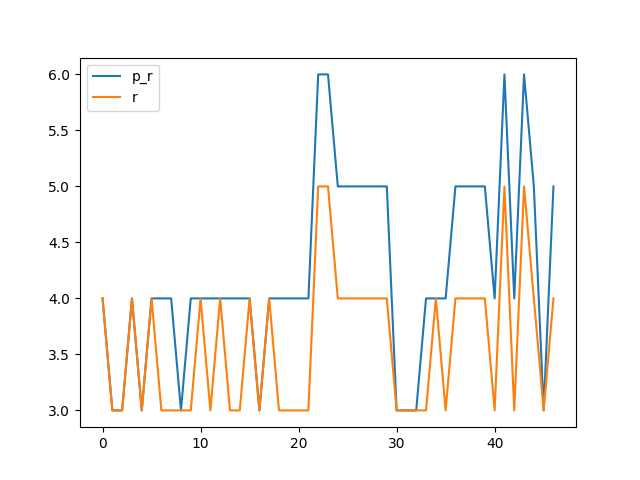
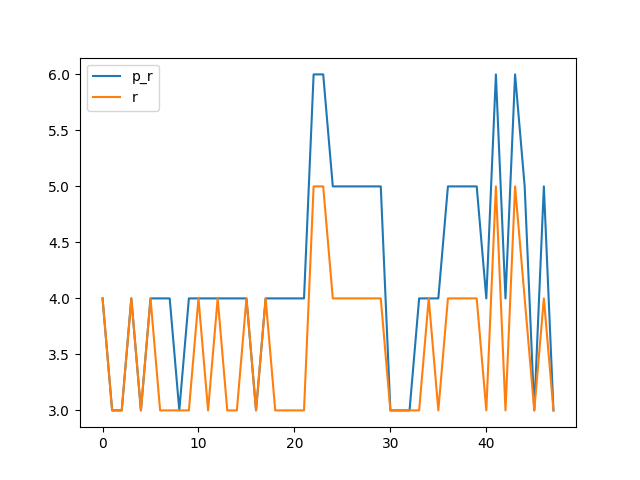
0x002F

diff --git a/benchmark.md b/benchmark.md
@@ -92,16 +92,18 @@ Synthesising 0x002D pexact:224 r=3 exact:224 r=3
 
 Synthesising 0x002E pexact:304 r=5 exact:312 r=4
 
+Synthesising 0x002F pexact:216 r=3 exact:216 r=3
+
 ```mermaid
 xychart-beta
     title "Comparison powertwoexact twoexact"
-    x-axis [0, 1, 2, 3, 4, 5, 6, 7, 8, 9, 10, 11, 12, 13, 14, 15, 16, 17, 18, 19, 20, 21, 22, 23, 24, 25, 26, 27, 28, 29, 30, 31, 32, 33, 34, 35, 36, 37, 38, 39, 40, 41, 42, 43, 44, 45, 46]
+    x-axis [0, 1, 2, 3, 4, 5, 6, 7, 8, 9, 10, 11, 12, 13, 14, 15, 16, 17, 18, 19, 20, 21, 22, 23, 24, 25, 26, 27, 28, 29, 30, 31, 32, 33, 34, 35, 36, 37, 38, 39, 40, 41, 42, 43, 44, 45, 46, 47]
     y-axis "Switching Activity" 0-->464
-    line [96, 152, 152, 182, 152, 182, 208, 182, 152, 208, 182, 182, 182, 182, 182, 182, 152, 182, 208, 182, 208, 182, 406, 400, 336, 310, 310, 304, 310, 304, 224, 216, 152, 208, 182, 182, 336, 310, 310, 304, 208, 406, 182, 400, 310, 224, 304]
-    line [192, 152, 152, 312, 152, 352, 224, 192, 192, 224, 352, 216, 320, 216, 216, 352, 152, 326, 224, 216, 224, 192, 464, 448, 352, 344, 344, 320, 336, 352, 224, 216, 192, 224, 318, 192, 352, 344, 344, 312, 224, 448, 192, 440, 344, 224, 312]
-    line [234.25531914893617, 234.25531914893617, 234.25531914893617, 234.25531914893617, 234.25531914893617, 234.25531914893617, 234.25531914893617, 234.25531914893617, 234.25531914893617, 234.25531914893617, 234.25531914893617, 234.25531914893617, 234.25531914893617, 234.25531914893617, 234.25531914893617, 234.25531914893617, 234.25531914893617, 234.25531914893617, 234.25531914893617, 234.25531914893617, 234.25531914893617, 234.25531914893617, 234.25531914893617, 234.25531914893617, 234.25531914893617, 234.25531914893617, 234.25531914893617, 234.25531914893617, 234.25531914893617, 234.25531914893617, 234.25531914893617, 234.25531914893617, 234.25531914893617, 234.25531914893617, 234.25531914893617, 234.25531914893617, 234.25531914893617, 234.25531914893617, 234.25531914893617, 234.25531914893617, 234.25531914893617, 234.25531914893617, 234.25531914893617, 234.25531914893617, 234.25531914893617, 234.25531914893617, 234.25531914893617]
-    line [276.8510638297872, 276.8510638297872, 276.8510638297872, 276.8510638297872, 276.8510638297872, 276.8510638297872, 276.8510638297872, 276.8510638297872, 276.8510638297872, 276.8510638297872, 276.8510638297872, 276.8510638297872, 276.8510638297872, 276.8510638297872, 276.8510638297872, 276.8510638297872, 276.8510638297872, 276.8510638297872, 276.8510638297872, 276.8510638297872, 276.8510638297872, 276.8510638297872, 276.8510638297872, 276.8510638297872, 276.8510638297872, 276.8510638297872, 276.8510638297872, 276.8510638297872, 276.8510638297872, 276.8510638297872, 276.8510638297872, 276.8510638297872, 276.8510638297872, 276.8510638297872, 276.8510638297872, 276.8510638297872, 276.8510638297872, 276.8510638297872, 276.8510638297872, 276.8510638297872, 276.8510638297872, 276.8510638297872, 276.8510638297872, 276.8510638297872, 276.8510638297872, 276.8510638297872, 276.8510638297872]
-    bar [80, 60, 60, 80, 60, 80, 80, 80, 60, 80, 80, 80, 80, 80, 80, 80, 60, 80, 80, 80, 80, 80, 120, 120, 100, 100, 100, 100, 100, 100, 60, 60, 60, 80, 80, 80, 100, 100, 100, 100, 80, 120, 80, 120, 100, 60, 100]
-    bar [80, 60, 60, 80, 60, 80, 60, 60, 60, 60, 80, 60, 80, 60, 60, 80, 60, 80, 60, 60, 60, 60, 100, 100, 80, 80, 80, 80, 80, 80, 60, 60, 60, 60, 80, 60, 80, 80, 80, 80, 60, 100, 60, 100, 80, 60, 80]
+    line [96, 152, 152, 182, 152, 182, 208, 182, 152, 208, 182, 182, 182, 182, 182, 182, 152, 182, 208, 182, 208, 182, 406, 400, 336, 310, 310, 304, 310, 304, 224, 216, 152, 208, 182, 182, 336, 310, 310, 304, 208, 406, 182, 400, 310, 224, 304, 216]
+    line [192, 152, 152, 312, 152, 352, 224, 192, 192, 224, 352, 216, 320, 216, 216, 352, 152, 326, 224, 216, 224, 192, 464, 448, 352, 344, 344, 320, 336, 352, 224, 216, 192, 224, 318, 192, 352, 344, 344, 312, 224, 448, 192, 440, 344, 224, 312, 216]
+    line [233.875, 233.875, 233.875, 233.875, 233.875, 233.875, 233.875, 233.875, 233.875, 233.875, 233.875, 233.875, 233.875, 233.875, 233.875, 233.875, 233.875, 233.875, 233.875, 233.875, 233.875, 233.875, 233.875, 233.875, 233.875, 233.875, 233.875, 233.875, 233.875, 233.875, 233.875, 233.875, 233.875, 233.875, 233.875, 233.875, 233.875, 233.875, 233.875, 233.875, 233.875, 233.875, 233.875, 233.875, 233.875, 233.875, 233.875, 233.875]
+    line [275.5833333333333, 275.5833333333333, 275.5833333333333, 275.5833333333333, 275.5833333333333, 275.5833333333333, 275.5833333333333, 275.5833333333333, 275.5833333333333, 275.5833333333333, 275.5833333333333, 275.5833333333333, 275.5833333333333, 275.5833333333333, 275.5833333333333, 275.5833333333333, 275.5833333333333, 275.5833333333333, 275.5833333333333, 275.5833333333333, 275.5833333333333, 275.5833333333333, 275.5833333333333, 275.5833333333333, 275.5833333333333, 275.5833333333333, 275.5833333333333, 275.5833333333333, 275.5833333333333, 275.5833333333333, 275.5833333333333, 275.5833333333333, 275.5833333333333, 275.5833333333333, 275.5833333333333, 275.5833333333333, 275.5833333333333, 275.5833333333333, 275.5833333333333, 275.5833333333333, 275.5833333333333, 275.5833333333333, 275.5833333333333, 275.5833333333333, 275.5833333333333, 275.5833333333333, 275.5833333333333, 275.5833333333333]
+    bar [80, 60, 60, 80, 60, 80, 80, 80, 60, 80, 80, 80, 80, 80, 80, 80, 60, 80, 80, 80, 80, 80, 120, 120, 100, 100, 100, 100, 100, 100, 60, 60, 60, 80, 80, 80, 100, 100, 100, 100, 80, 120, 80, 120, 100, 60, 100, 60]
+    bar [80, 60, 60, 80, 60, 80, 60, 60, 60, 60, 80, 60, 80, 60, 60, 80, 60, 80, 60, 60, 60, 60, 100, 100, 80, 80, 80, 80, 80, 80, 60, 60, 60, 60, 80, 60, 80, 80, 80, 80, 60, 100, 60, 100, 80, 60, 80, 60]
 ```
 
